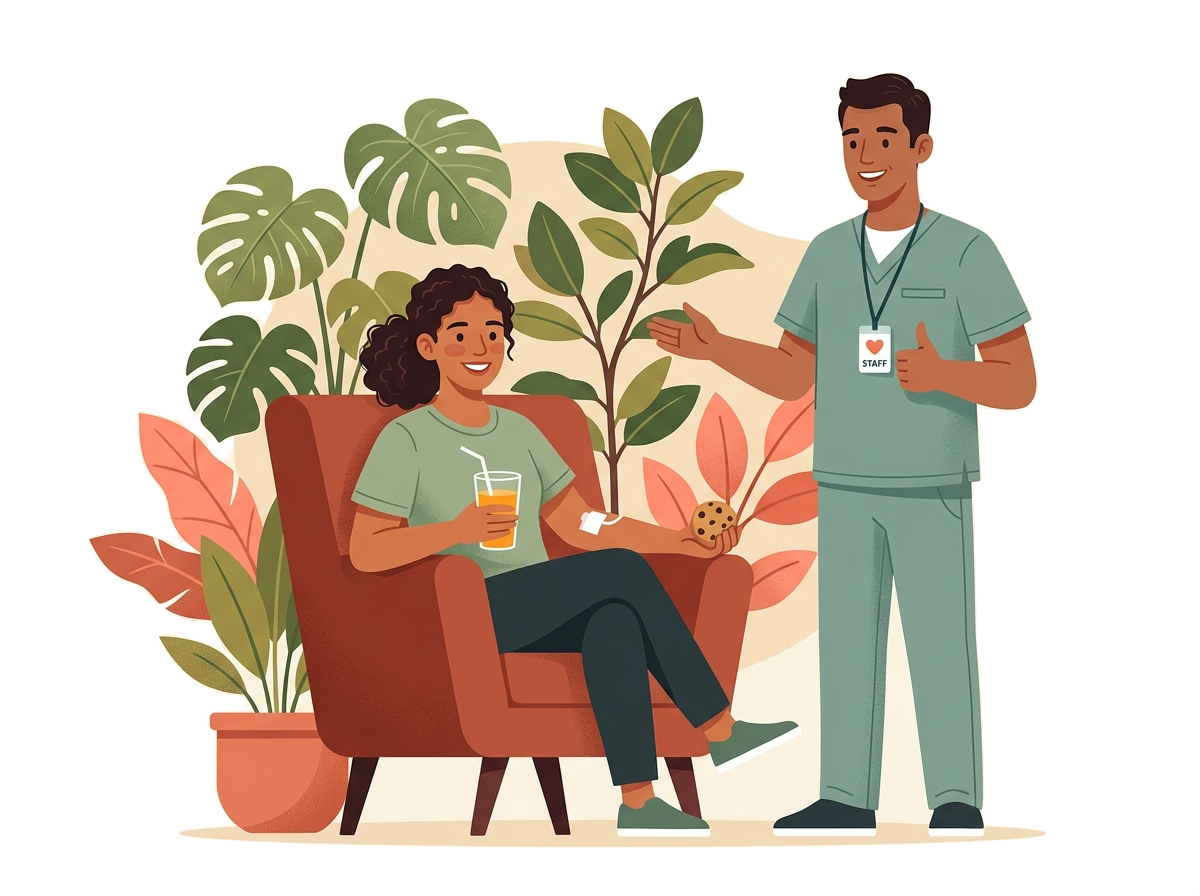
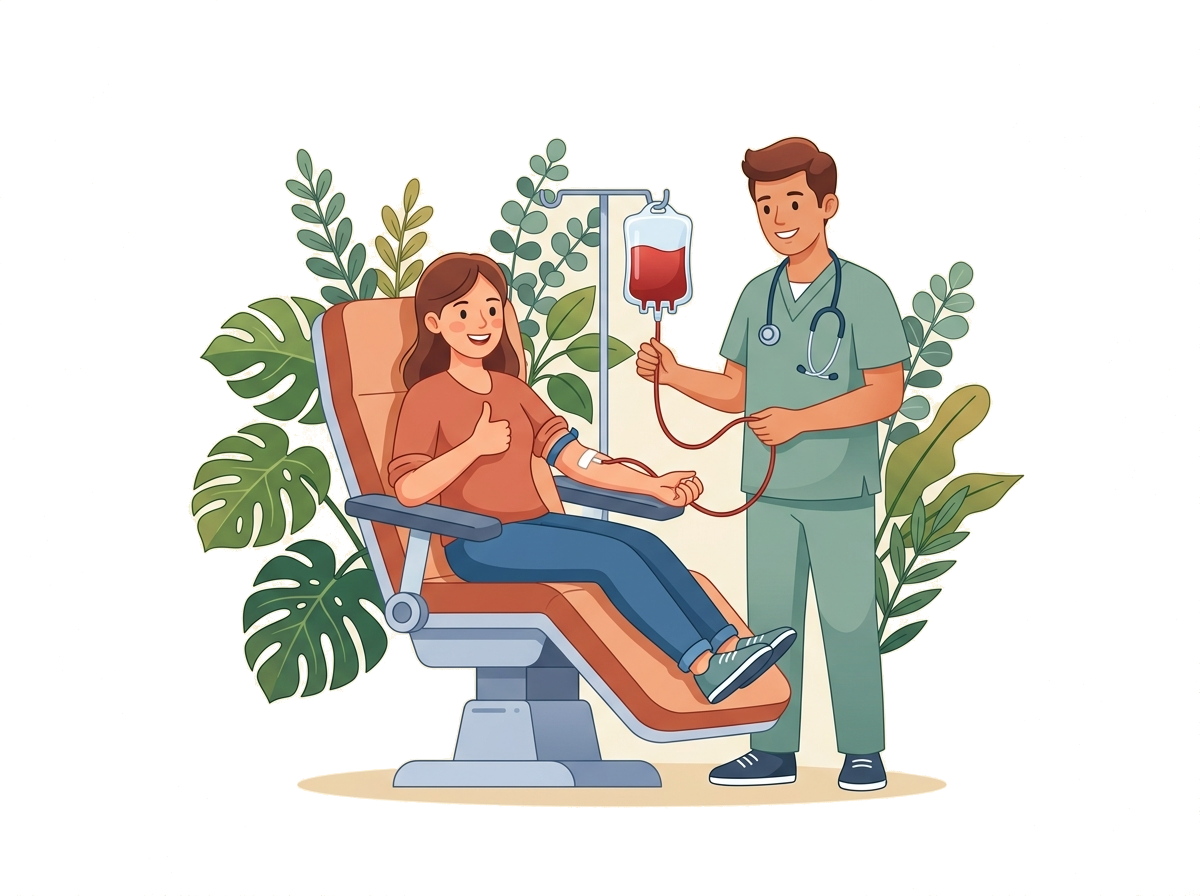
blood donation editorial landing page and assets

diff --git a/client/src/App.jsx b/client/src/App.jsx
@@ -93,27 +93,47 @@ const FAQ_ITEMS = [
   }
 ];
 
-// 5 Editorial Blood Donation Illustration Variants (Click & Auto-Cycling)
+// 5 Editorial Blood Donation Illustration Variants (Ordered 2, 3, 4, 5, 1)
 const HERO_VARIANTS = [
   {
-    src: '/editorial_donation_1.png',
-    alt: 'Voluntary blood donor giving thumbs-up in recliner with healthcare nurse holding blood donation pack'
-  },
-  {
     src: '/editorial_donation_2.png',
-    alt: 'Cheerful donor enjoying post-donation refreshments in armchair with nurse giving warm congratulations'
+    alt: 'Voluntary female blood donor smiling in donation chair with male nurse gently monitoring blood collection unit',
+    tagline: 'Voluntary Life-Saving Network',
+    line1: 'The Art of',
+    line2: 'Giving Life.',
+    quote: 'Do you know that a single donation can breathe life into three emergency patients? BloodLink is the warm, gentle platform connecting compassionate voluntary donors with families in urgent medical need.'
   },
   {
     src: '/editorial_donation_3.png',
-    alt: 'Two friendly young blood donor champions proudly holding stylized life drop emblem together'
+    alt: 'Male emergency courier delivering red insulated blood transport box to female emergency physician with intake tablet',
+    tagline: 'Urgent Emergency Dispatch',
+    line1: 'Every Second',
+    line2: 'Counts for Life.',
+    quote: 'When every minute counts, our rapid emergency delivery network bridges voluntary donors and hospital operating rooms across 120+ partner centers within minutes.'
   },
   {
     src: '/editorial_donation_4.png',
-    alt: 'Emergency blood courier delivering insulated transport cooler box to welcoming hospital doctor'
+    alt: 'Female emergency blood courier delivering insulated transport cooler box to welcoming hospital doctor with clipboard',
+    tagline: 'Certified Cold-Chain Logistics',
+    line1: 'Guardians of',
+    line2: 'Safe Delivery.',
+    quote: 'From voluntary donation to hospital bedside, rigorous cold-chain temperature monitoring ensures every life-saving unit remains pure, certified, and ready.'
   },
   {
     src: '/editorial_donation_5.png',
-    alt: 'Recovered patient and proud voluntary blood donor shaking hands in heartfelt gratitude with doctor celebrating'
+    alt: 'Female clinical blood bank specialist handing carefully verified blood donation pack to male surgical physician in scrubs',
+    tagline: 'Clinical Precision Matching',
+    line1: 'The Precision of',
+    line2: 'Healing Hands.',
+    quote: 'Every drop undergoes rigorous safety screening and precise compatibility matching before reaching our surgical teams, bringing hope to families in critical care.'
+  },
+  {
+    src: '/editorial_donation_1.png',
+    alt: 'Voluntary male blood donor giving thumbs-up in recliner with healthcare nurse holding blood donation pack',
+    tagline: 'Community Hero Network',
+    line1: 'The Strength of',
+    line2: 'Quiet Heroes.',
+    quote: 'Ordinary people doing extraordinary kindness. Join over 4,200 verified voluntary heroes ready to answer urgent life-saving calls whenever emergency strikes.'
   }
 ];
 
@@ -121,14 +141,56 @@ export default function App() {
   const [selectedBloodGroup, setSelectedBloodGroup] = useState('O+');
   const [openFaq, setOpenFaq] = useState(0);
 
-  // Hero Illustration Auto & Click Cycling State
+  // Hero Illustration Auto & Click Cycling State (10-second timer)
   const [heroVariantIndex, setHeroVariantIndex] = useState(0);
+  const currentVariant = HERO_VARIANTS[heroVariantIndex];
 
-  // Auto-advance illustration every 5.5 seconds, resetting on user manual click
+  // Two-Line Typewriter effect: types line 1, then line 2, and removes '|' cursor upon completion
+  const [typedLine1, setTypedLine1] = useState(HERO_VARIANTS[0].line1);
+  const [typedLine2, setTypedLine2] = useState(HERO_VARIANTS[0].line2);
+  const [isTypingComplete, setIsTypingComplete] = useState(true);
+
+  useEffect(() => {
+    let char1 = 0;
+    let char2 = 0;
+    const target1 = currentVariant.line1;
+    const target2 = currentVariant.line2;
+
+    setTypedLine1('');
+    setTypedLine2('');
+    setIsTypingComplete(false);
+
+    let phase = 1;
+    const typingSpeed = 42; // ms per char
+
+    const interval = setInterval(() => {
+      if (phase === 1) {
+        if (char1 < target1.length) {
+          setTypedLine1(target1.slice(0, char1 + 1));
+          char1++;
+        } else {
+          phase = 2;
+        }
+      } else if (phase === 2) {
+        if (char2 < target2.length) {
+          setTypedLine2(target2.slice(0, char2 + 1));
+          char2++;
+        } else {
+          phase = 3;
+          setIsTypingComplete(true);
+          clearInterval(interval);
+        }
+      }
+    }, typingSpeed);
+
+    return () => clearInterval(interval);
+  }, [heroVariantIndex, currentVariant.line1, currentVariant.line2]);
+
+  // Auto-advance illustration every 10 seconds (larger interval), resetting on user manual click
   useEffect(() => {
     const timer = setInterval(() => {
       setHeroVariantIndex((prev) => (prev + 1) % HERO_VARIANTS.length);
-    }, 5500);
+    }, 10000);
     return () => clearInterval(timer);
   }, [heroVariantIndex]);
 
@@ -221,16 +283,19 @@ export default function App() {
         <div className="hero-text-block">
           <div className="hero-tagline-badge">
             <span style={{ width: '8px', height: '8px', borderRadius: '50%', backgroundColor: '#EF4E4E', display: 'inline-block' }}></span>
-            <span>Voluntary Life-Saving Network</span>
+            <span>{currentVariant.tagline}</span>
           </div>
 
           <h1 className="hero-main-heading">
-            The Art of <br />
-            <em>Giving Life.</em>
+            <span>{typedLine1}</span>
+            {!typedLine2 && !isTypingComplete && <span className="typewriter-cursor">|</span>}
+            <br />
+            {typedLine2 && <em className="hero-typed-text">{typedLine2}</em>}
+            {typedLine2 && !isTypingComplete && <span className="typewriter-cursor">|</span>}
           </h1>
 
           <p className="hero-lead-text">
-            Do you know that a single donation can breathe life into three emergency patients? BloodLink is the warm, gentle platform connecting compassionate voluntary donors with families in urgent medical need.
+            {currentVariant.quote}
           </p>
 
           <div className="hero-action-buttons">

diff --git a/client/src/App.css b/client/src/App.css
@@ -103,6 +103,7 @@
   font-weight: 700;
   letter-spacing: -0.035em;
   color: var(--text-primary);
+  min-height: 2.15em;
 }
 
 .hero-main-heading em {
@@ -111,11 +112,31 @@
   color: var(--coral-accent);
 }
 
+.typewriter-cursor {
+  display: inline-block;
+  margin-left: 4px;
+  font-weight: 300;
+  font-style: normal;
+  color: var(--coral-accent);
+  animation: cursorBlink 0.85s infinite;
+}
+
+@keyframes cursorBlink {
+  0%, 100% {
+    opacity: 1;
+  }
+  50% {
+    opacity: 0;
+  }
+}
+
 .hero-lead-text {
   font-size: 1.15rem;
   line-height: 1.7;
   color: var(--text-secondary);
   max-width: 500px;
+  min-height: 85px;
+  transition: opacity 0.4s ease;
 }
 
 .hero-action-buttons {
